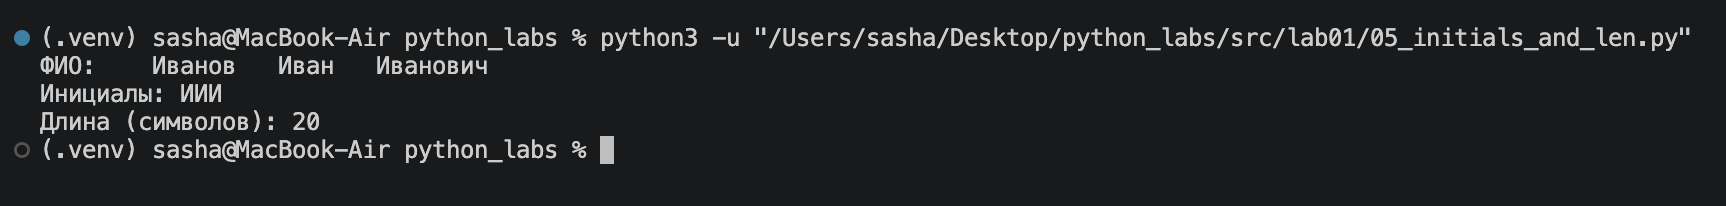
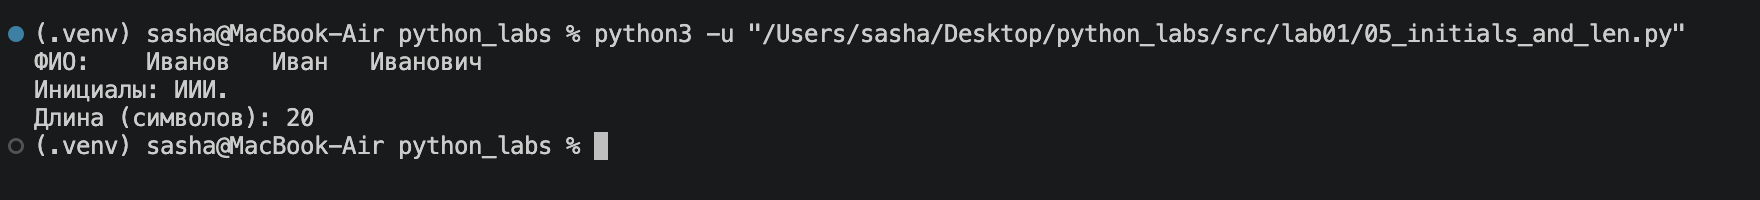
quick fix

diff --git a/src/lab01/05_initials_and_len.py b/src/lab01/05_initials_and_len.py
@@ -2,5 +2,5 @@ name = input("ФИО: ")
 parts = name.split()
 initials = ''.join(p[0].upper() for p in parts)
 clean_name = ' '.join(parts)
-print(f"Инициалы: {initials}")
+print(f"Инициалы: {initials}.")
 print(f"Длина (символов): {len(clean_name)}")
